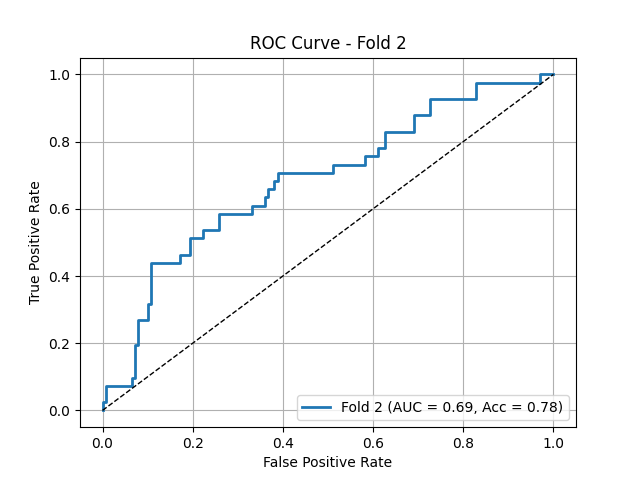
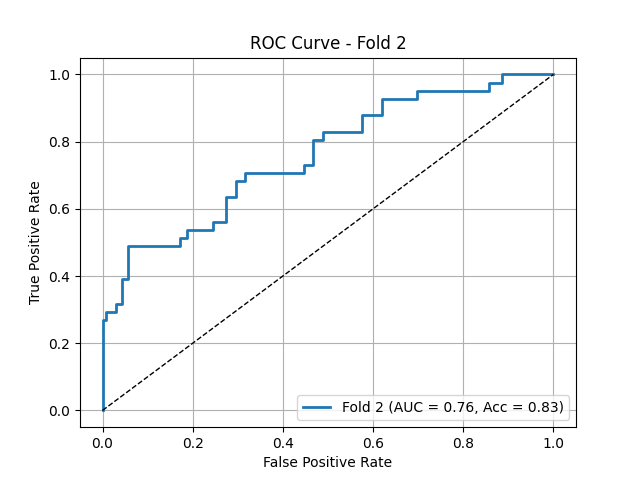
new training sdf model

diff --git a/dataset_washu2.py b/dataset_washu2.py
@@ -33,6 +33,9 @@ import numpy as np
 from sklearn.model_selection import StratifiedKFold
 from collections import defaultdict
 
+import matplotlib
+matplotlib.use('Agg')  # Use non-interactive backend
+
 
 # # Training transformations
 # common_train_transform = A.Compose([
@@ -81,8 +84,8 @@ train_transform = A.Compose([
 	A.GaussNoise(std_range=(0.02, 0.1), p=0.6),
 	
 	A.RandomBrightnessContrast(brightness_limit=(-0.01, 0.01), contrast_limit=(-0.01, 0.01), p=0.5),
-    A.ElasticTransform(alpha = 5, sigma = 250, p=0.5),
-    A.GridDistortion(distort_limit=(-0.1,0.1), p=0.5),
+    A.ElasticTransform(alpha = 10, sigma = 250, p=0.5),
+    A.GridDistortion(distort_limit=(-0.2,0.2), p=0.5),
     # #A.CLAHE(clip_limit=.5, tile_grid_size=(8, 8), p=0.5),
 	A.ShiftScaleRotate(shift_limit=(-0.005,0.005), scale_limit=(-0.2, 0.005), rotate_limit=(-30,30), border_mode=0, value=0, p=0.9), 
     A.Downscale(scale_range=(0.85,0.99), p=0.5),

diff --git a/multi_head_models2.py b/multi_head_models2.py
@@ -290,7 +290,8 @@ class BinaryClassification(pl.LightningModule):
             param.requires_grad = False
 
         self.sdf_model = SDFModel()
-        sdf_model_path = "./checkpoints/deeplabv3/model_20250620_211018/epoch_16" #r"checkpoints\deeplabv3_sdf_randomcrop\model_20250711_113651\epoch_49" #
+        sdf_model_path = r"checkpoints\deeplabv3_sdf_randomcrop\model_20250711_113651\epoch_49" #
+        #"./checkpoints/deeplabv3/model_20250620_211018/epoch_16" #r"checkpoints\deeplabv3_sdf_randomcrop\model_20250711_113651\epoch_49" #
         self.sdf_model.load_state_dict(torch.load(sdf_model_path))
 
         for param in self.sdf_model.parameters():
